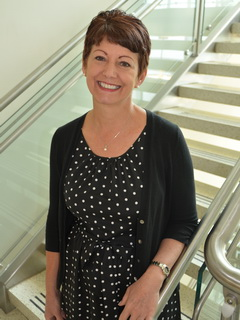
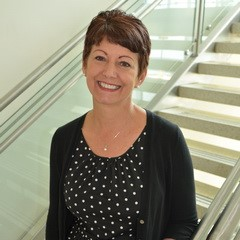
change pic to square

diff --git a/dwell/index.html b/dwell/index.html
@@ -460,7 +460,7 @@
                   </div>
                 </div>
 
-              <h2>Acknowledgements</h2>
+              <h3>Acknowledgements</h3>
               <div class="row" style="background:#fff">
                 <div class="col-12 col-lg-12">
                   <p>Special thanks to Susana Barroso-Fernandez, Jacqueline Lopez, and Laura Albuja for their early contributions to character development;
